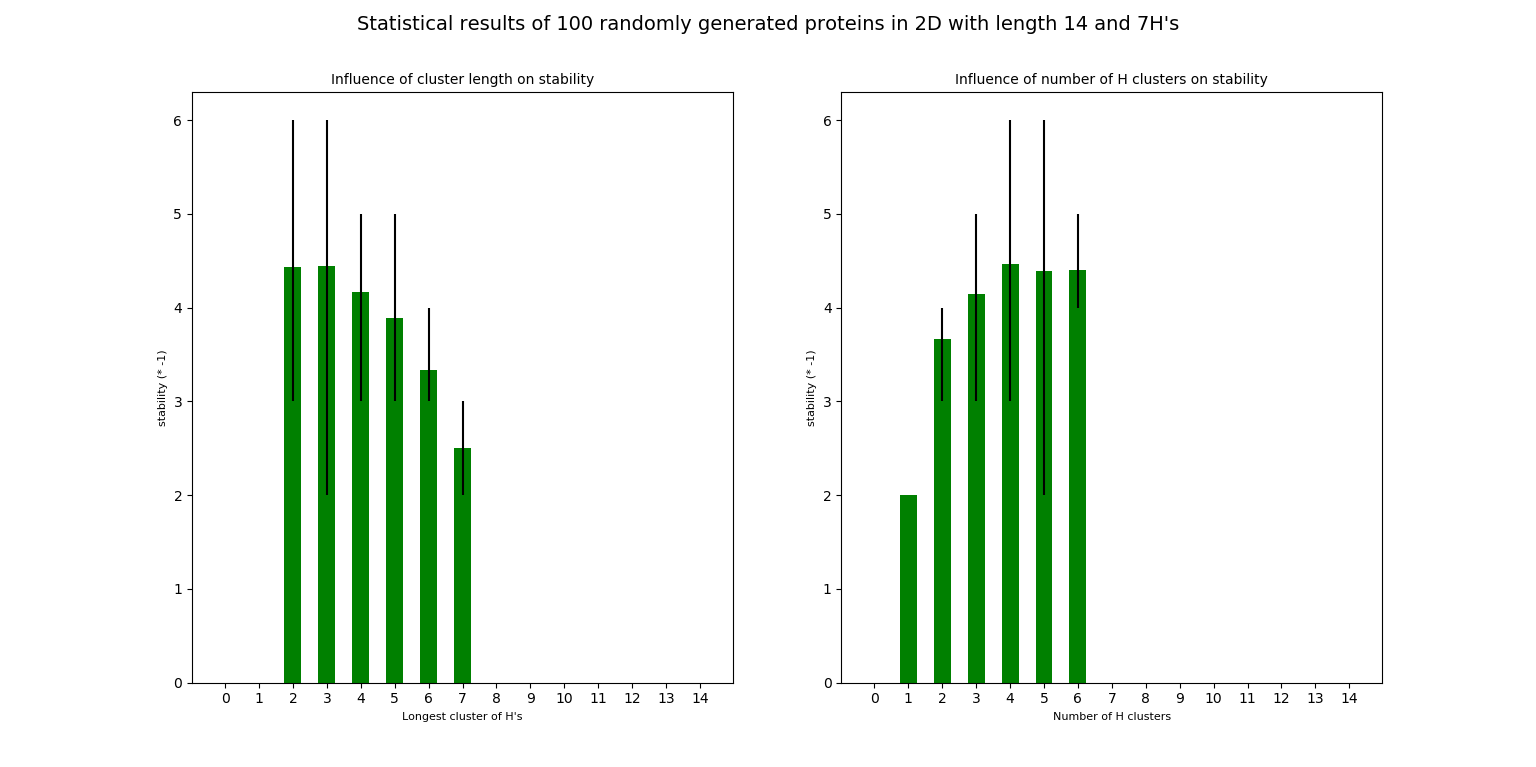
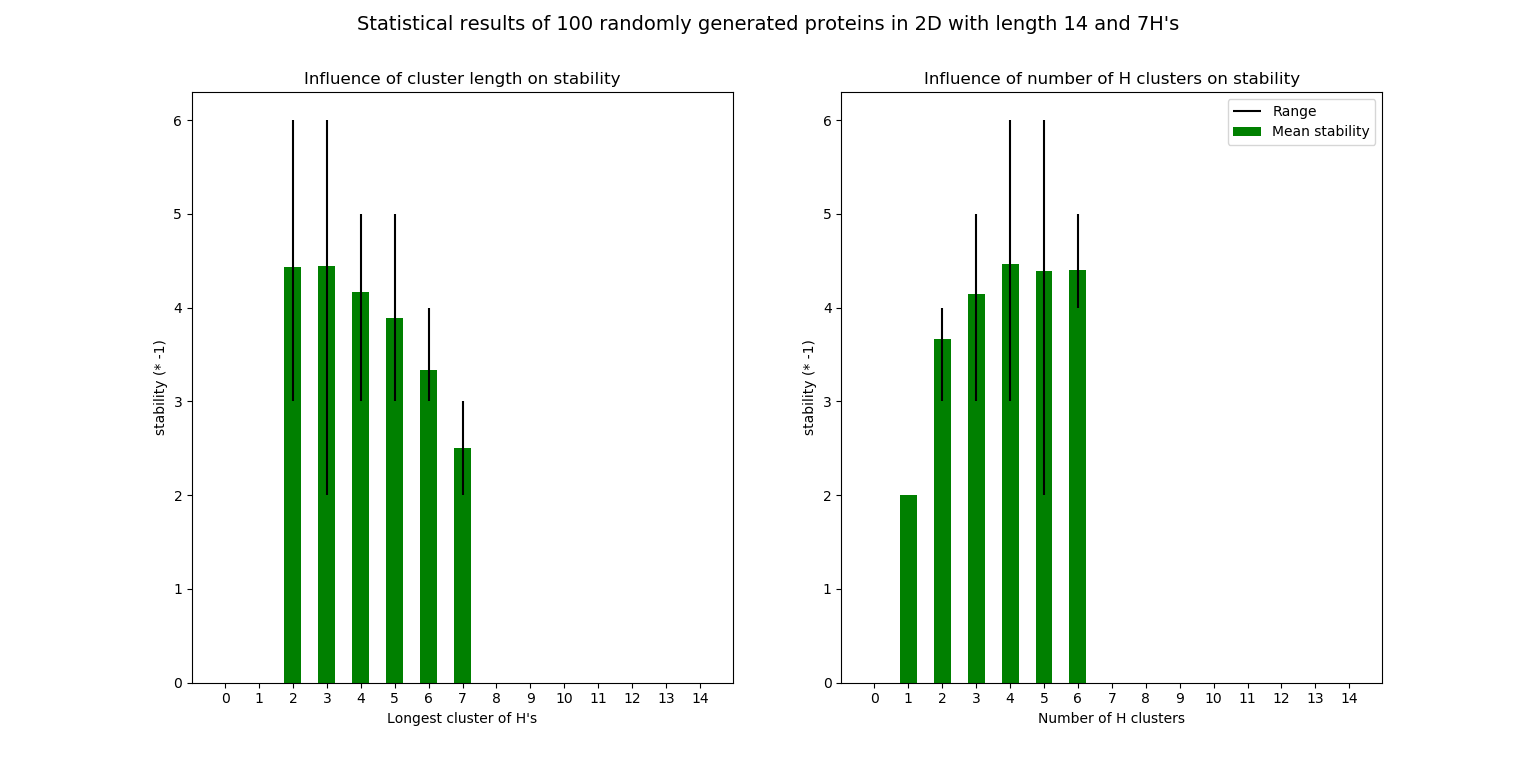
some small typos, docstrings, comments etc. legend to figures

diff --git a/experimentProteins.py b/experimentProteins.py
@@ -298,13 +298,14 @@ def visualiseStatsCluster(clusterLengthStatistics, clusterCountStatistics, numbe
     # loops over params and plots data
     for i in range(len(meanList)):
         ax = fig.add_subplot(gs1[i])
-        ax.bar(ind, meanList[i], width=0.5, color="green")
+        ax.bar(ind, meanList[i], width=0.5, color="green", label="Mean stability")
         ax.set_xticks(ind)
-        ax.set_xlabel(xlabels[i], fontsize=8)
-        ax.set_ylabel(ylabel, fontsize=8)
-        ax.set_title(plotTitles[i], fontsize=10)
-        ax.vlines(ind, ymin=minList[i], ymax=maxList[i])
+        ax.set_xlabel(xlabels[i], fontsize=10)
+        ax.set_ylabel(ylabel, fontsize=10)
+        ax.set_title(plotTitles[i], fontsize=12)
+        ax.vlines(ind, ymin=minList[i], ymax=maxList[i], label="Range")
 
+    plt.legend()
     plt.show()
     gs1.tight_layout(fig)
 
@@ -351,13 +352,14 @@ def visualiseStatsHCount(HCountStatistics, number, dimensions, length):
                  ' with length ' + str(length), fontsize=14)
 
     # plot data
-    ax.bar(ind, meanHcount, width=0.5, color="green")
+    ax.bar(ind, meanHcount, width=0.5, color="green", label="Mean stability")
     ax.set_xticks(ind)
-    ax.set_xlabel(xlabel, fontsize=8)
-    ax.set_ylabel(ylabel, fontsize=8)
-    ax.set_title(plotTitle, fontsize=10)
-    ax.vlines(ind, ymin=minHcount, ymax=maxHcount)
+    ax.set_xlabel(xlabel, fontsize=10)
+    ax.set_ylabel(ylabel, fontsize=10)
+    ax.set_title(plotTitle, fontsize=12)
+    ax.vlines(ind, ymin=minHcount, ymax=maxHcount, label="Range")
 
+    plt.legend()
     plt.show()
 
 

diff --git a/classes/Protein.py b/classes/Protein.py
@@ -69,7 +69,7 @@ class Protein(object):
         else:
             return None
 
-    def fold(self, folding_pattern):
+    def fold(self, foldingPattern):
         """ Folds protein according to input pattern 2D
         :param folding_pattern: pattern followed to fold protein
         :return: coordinates of aminoacids set in the self.list
@@ -81,17 +81,17 @@ class Protein(object):
         # iterate over aminoacids in protein
         for index in range(self.length):
             # set orientation to folding pattern
-            if folding_pattern[index] == '+X':
+            if foldingPattern[index] == '+X':
                 x += 1
-            elif folding_pattern[index] == '-X':
+            elif foldingPattern[index] == '-X':
                 x -= 1
-            elif folding_pattern[index] == '+Y':
+            elif foldingPattern[index] == '+Y':
                 y += 1
-            elif folding_pattern[index] == '-Y':
+            elif foldingPattern[index] == '-Y':
                 y -= 1
-            elif folding_pattern[index] == '+Z':
+            elif foldingPattern[index] == '+Z':
                 z += 1
-            elif folding_pattern[index] == '-Z':
+            elif foldingPattern[index] == '-Z':
                 z -= 1
 
             # set new coordinates to aminoacid

diff --git a/experiments/ProteinRandomizer.py b/experiments/ProteinRandomizer.py
@@ -10,6 +10,8 @@ class ProteinRandomizer():
 
         :param length: length of the protein to be created
         :param iterations: number of random proteins to be generated
+        :param fixedHNumber: fixed number of H's to be in the protein
+        :param dimensions: 2 for 2D, 3 for 3D
         """
 
         # initialize input variables
@@ -24,8 +26,6 @@ class ProteinRandomizer():
         self.clusters = 0
         self.maxClusterLength = 0
         self.clusterLength = 0
-
-
 
     def run(self):
         """ Runs a maximal amount of iterations in which random proteins be created
@@ -45,11 +45,9 @@ class ProteinRandomizer():
             # loop over max iterations
             for iteration in range(self.iterations):
 
+                # check which generator should be used
                 if self.fixedHNumber is None:
                     self.generator()
-                elif self.fixedHNumber == 0:
-                    self.generatorFixedHall()
-                    break
                 else:
                     self.generatorFixedH(self.fixedHNumber)
 

diff --git a/algorithms/BranchNBound.py b/algorithms/BranchNBound.py
@@ -52,7 +52,10 @@ class BranchNBound(DepthFirst):
             return False
 
     def pruneStraight(self, k):
-        """ Prunes when 3 aminoacids in a row have the same orientation"""
+        """ Prunes when 3 aminoacids in a row have the same orientation
+
+        :param k: the aminoacid currently being placed
+        """
 
         # if a range with 3 in a row, prune!
         for j in range(1, k - 1):
